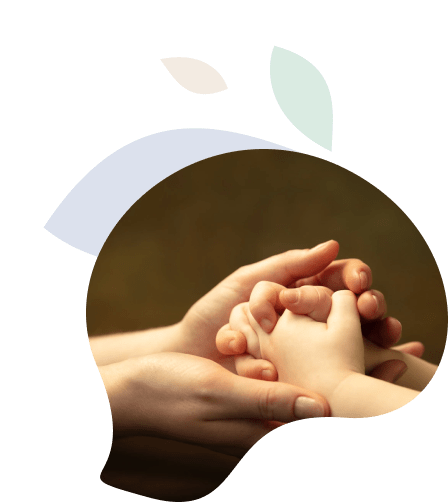
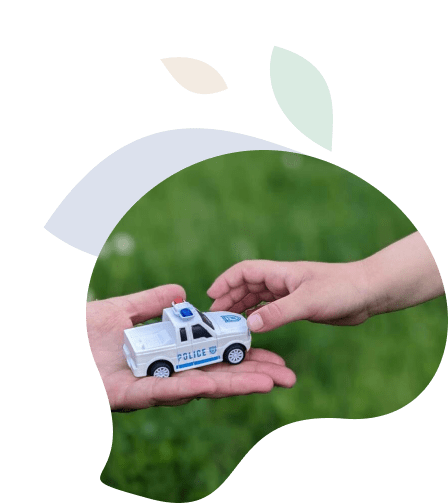
fix: change images, fix styles

diff --git a/src/scss/components/_home.scss b/src/scss/components/_home.scss
@@ -1,5 +1,5 @@
 .section-bg {
-    background-image: url('../../images/main-bg.png');
+    background-image: url('../images/main-bg.png');
     background-repeat: no-repeat;
     background-position: bottom;
     background-size: cover;
@@ -17,7 +17,7 @@
         position: absolute;
         width: 1038px;
         height: 628px;
-        background-image: url('../../images/icon/line-1.svg');
+        background-image: url('../images/icon/line-1.svg');
         background-repeat: no-repeat;
         background-position: center;
         background-size: cover;
@@ -31,7 +31,7 @@
         position: absolute;
         width: 185px;
         height: 656px;
-        background-image: url('../../images/icon/line-2.svg');
+        background-image: url('../images/icon/line-2.svg');
         background-repeat: no-repeat;
         background-position: center;
         background-size: contain;
@@ -110,7 +110,7 @@
         &::before {
             content: "";
             position: absolute;
-            background-image: url('../../images/icon/video-arrow.svg');
+            background-image: url('../images/icon/video-arrow.svg');
             background-repeat: no-repeat;
             background-position: center;
             background-size: contain;
@@ -174,7 +174,7 @@
         position: absolute;
         width: 170px;
         height: 279px;
-        background-image: url('../../images/icon/line-3.svg');
+        background-image: url('../images/icon/line-3.svg');
         background-repeat: no-repeat;
         background-position: center;
         background-size: contain;
@@ -287,7 +287,7 @@
     }
 
     &__flower {
-        background-image: url('../../images/icon/large-flower.svg');
+        background-image: url('../images/icon/large-flower.svg');
         background-repeat: no-repeat;
         background-position: center;
         background-size: cover;
@@ -416,7 +416,7 @@
                 }
             }
             li:nth-child(8) {
-                transform: rotate(86deg) translate(-350px, -30px);
+                transform: rotate(86deg) translate(-348px, -32px);
 
                 img {
                     transform: rotate(-86deg);
@@ -468,7 +468,7 @@
                     position: absolute;
                     left: 0;
                     top: 2px;
-                    background-image: url('../../images/icon/link-arrow.svg');
+                    background-image: url('../images/icon/link-arrow.svg');
                     background-position: center;
                     background-repeat: no-repeat;
                     background-size: contain;
@@ -528,7 +528,7 @@
 
 .our-projects {
     position: relative;
-    background-image: url('../../images/icon/proj-bg.svg');
+    background-image: url('../images/icon/proj-bg.svg');
     background-repeat: no-repeat;
     background-position: center;
     background-size: cover;
@@ -706,7 +706,7 @@
                 border: 1px solid transparent;
 
                 &::after {
-                    background-image: url('../../images/icon/heart.svg');
+                    background-image: url('../images/icon/heart.svg');
                     width: 10px;
                     height: 9px;
                     right: 15px;
@@ -730,7 +730,7 @@
                 color: var(--cs-blue);
                 
                 &::after {
-                    background-image: url('../../images/icon/arrow-more.svg');
+                    background-image: url('../images/icon/arrow-more.svg');
                     width: 8px;
                     height: 8px;
                     right: 7px;
@@ -784,7 +784,7 @@
     position: relative;
     padding-top: 170px;
     margin-bottom: 120px;
-    background-image: url('../../images/icon/line-4.svg');
+    background-image: url('../images/icon/line-4.svg');
     background-repeat: no-repeat;
     background-size: contain;
     background-position: center 170px;
@@ -794,7 +794,7 @@
         position: absolute;
         width: 100%;
         height: 80px;
-        background-image: url('../../images/banner.jpg');
+        background-image: url('../images/banner.jpg');
         background-repeat: no-repeat;
         background-position: center;
         background-size: cover;
@@ -852,7 +852,7 @@
         position: absolute;
         width: 455px;
         height: 257px;
-        background-image: url('../../images/icon/line-5.svg');
+        background-image: url('../images/icon/line-5.svg');
         background-repeat: no-repeat;
         background-position: center;
         background-size: contain;
@@ -866,7 +866,7 @@
         position: absolute;
         width: 278px;
         height: 738px;
-        background-image: url('../../images/icon/line-6.svg');
+        background-image: url('../images/icon/line-6.svg');
         background-repeat: no-repeat;
         background-position: center;
         background-size: contain;

diff --git a/src/scss/components/media/_home.scss b/src/scss/components/media/_home.scss
@@ -61,16 +61,21 @@
     }
 
     .how-help {
-        &__container {
-            flex-wrap: wrap;
-            justify-content: space-evenly;
-        }
-        &__menu {
-            width: 42%;
-        }
         &__flower {
-            order: -1;
-            margin: 0 auto;
+            width: 730px;
+            height: 685px;
+
+            .menu ul {
+                li:nth-child(8) {
+                    a img {
+                        transform: rotate(-86deg) scale(.8);
+                    }
+                
+                    a:hover img {
+                        transform: rotate(-86deg) scale(.8);
+                    }
+                }
+            }
         }
     }
     .our-projects { 
@@ -117,6 +122,22 @@
                 padding-right: 20px;
                 margin-right: 20px;
             }
+        }
+    }
+}
+
+@include small-desktop {
+    .how-help {
+        &__container {
+            flex-wrap: wrap;
+            justify-content: space-evenly;
+        }
+        &__menu {
+            width: 42%;
+        }
+        &__flower {
+            order: -1;
+            margin: 0 auto;
         }
     }
 }
@@ -431,7 +452,7 @@
 
 @include mobile {
     .main-screen {
-        background-image: url('../../../images/main-bg-mob.png');
+        background-image: url('../images/main-bg-mob.png');
         padding-bottom: 25px;
         margin-bottom: 60px;
 
@@ -487,7 +508,7 @@
         }
 
         &__flower {
-            background-image: url('../../../images/icon/flower-mob.svg');
+            background-image: url('../images/icon/flower-mob.svg');
             max-width: 594px;
             width: 100%;
             height: 488px;
@@ -591,8 +612,8 @@
                 li:nth-child(8) {
                     transform: rotate(87deg) translate(-293px, -24px);
 
-                    img {
-                        transform: rotate(-87deg);
+                    a img {
+                        transform: rotate(-87deg) scale(1);
                         max-width: 95px;
                     }
     
@@ -628,7 +649,7 @@
         }
     }
     .our-projects { 
-        background-image: url('../../images/icon/proj-bg-mob.svg');
+        background-image: url('../images/icon/proj-bg-mob.svg');
         padding: 60px 0;
 
         .titles-wrap {

diff --git a/src/scss/components/_about.scss b/src/scss/components/_about.scss
@@ -49,7 +49,7 @@
         position: relative;
         padding-top: 50px;
         margin-bottom: 32px;
-        background-image: url('../../images/icon/line-7.svg');
+        background-image: url('../images/icon/line-7.svg');
         background-repeat: no-repeat;
         background-size: cover;
         background-position: center;
@@ -59,7 +59,7 @@
             padding-top: 117px;
             padding-bottom: 97px;
             position: relative;
-            background-image: url('../../images/icon/ellipse.svg');
+            background-image: url('../images/icon/ellipse.svg');
             background-repeat: no-repeat;
             background-position: center;
             background-size: contain;
@@ -69,7 +69,7 @@
                 position: absolute;
                 width: 200px;
                 height: 200px;
-                background-image: url('../../images/icon/leafs.svg');
+                background-image: url('../images/icon/leafs.svg');
                 background-repeat: no-repeat;
                 background-position: center;
                 background-size: contain;

diff --git a/src/scss/components/_one-news.scss b/src/scss/components/_one-news.scss
@@ -128,7 +128,7 @@
                         &::before {
                             content: "";
                             position: absolute;
-                            background-image: url('../../images/icon/clock.svg');
+                            background-image: url('../images/icon/clock.svg');
                             background-repeat: no-repeat;
                             background-position: center;
                             background-size: contain;
@@ -155,7 +155,7 @@
                         &::after {
                             content: "";
                             position: absolute;
-                            background-image: url('../../images/icon/arrow-more.svg');
+                            background-image: url('../images/icon/arrow-more.svg');
                             background-position: center;
                             background-repeat: no-repeat;
                             background-size: contain;

diff --git a/src/scss/components/_news.scss b/src/scss/components/_news.scss
@@ -71,7 +71,7 @@
         border: 1px solid transparent;
 
         &::after {
-            background-image: url('../../images/icon/heart.svg');
+            background-image: url('../images/icon/heart.svg');
             width: 10px;
             height: 9px;
             right: 15px;
@@ -95,7 +95,7 @@
         color: var(--cs-blue);
         
         &::after {
-            background-image: url('../../images/icon/arrow-more.svg');
+            background-image: url('../images/icon/arrow-more.svg');
             width: 8px;
             height: 8px;
             right: 7px;

diff --git a/src/scss/components/_header.scss b/src/scss/components/_header.scss
@@ -171,7 +171,7 @@
         &__container {
             width: 98%;
             margin-left: auto;
-            background-image: url('../../images/mobile-bg.jpg');
+            background-image: url('../images/mobile-bg.jpg');
             background-repeat: no-repeat;
             background-position: center;
             background-size: cover;

diff --git a/src/scss/mixins/_content.scss b/src/scss/mixins/_content.scss
@@ -34,7 +34,7 @@
         position: absolute;
         width: 27px;
         height: 27px;
-        background-image: url('../../images/icon/leaf.svg');
+        background-image: url('../images/icon/leaf.svg');
         background-repeat: no-repeat;
         background-position: center;
         background-size: contain;

diff --git a/src/scss/components/media/_about.scss b/src/scss/components/media/_about.scss
@@ -21,7 +21,7 @@
             }
         }
         .large-phone {
-            background-image: url('../../../images/icon/ellipse.svg');
+            background-image: url('../images/icon/ellipse.svg');
             padding-top: 81px;
             padding-bottom: 120px;
             

diff --git a/src/scss/components/_404.scss b/src/scss/components/_404.scss
@@ -5,7 +5,7 @@
     }
 
     .error {
-        background-image: url('../../images/icon/error-bg.svg');
+        background-image: url('../images/icon/error-bg.svg');
         background-repeat: no-repeat;
         background-position: right;
         background-size: contain;

diff --git a/src/scss/components/_footer.scss b/src/scss/components/_footer.scss
@@ -1,6 +1,6 @@
 .footer {
     position: relative;
-    background-image: url('../../images/footer-bg.png');
+    background-image: url('../images/footer-bg.png');
     background-repeat: no-repeat;
     background-position: center;
     background-size: cover;

diff --git a/src/index.html b/src/index.html
@@ -10,7 +10,7 @@
     <!-- @include('partials/news.html') -->
     <!-- @include('partials/one-news.html') -->
     <!-- @include('partials/404.html') -->
-    <!-- @include('partials/footer.html') -->
+    @include('partials/footer.html')
 </body>
 
 </html>

diff --git a/src/scss/components/media/_footer.scss b/src/scss/components/media/_footer.scss
@@ -88,7 +88,7 @@
 
 @include mobile {
     .footer {
-        background-image: url('../../../images/footer-bg-mob.png');
+        background-image: url('../images/footer-bg-mob.png');
 
         .copyright {
             margin-top: 0;
